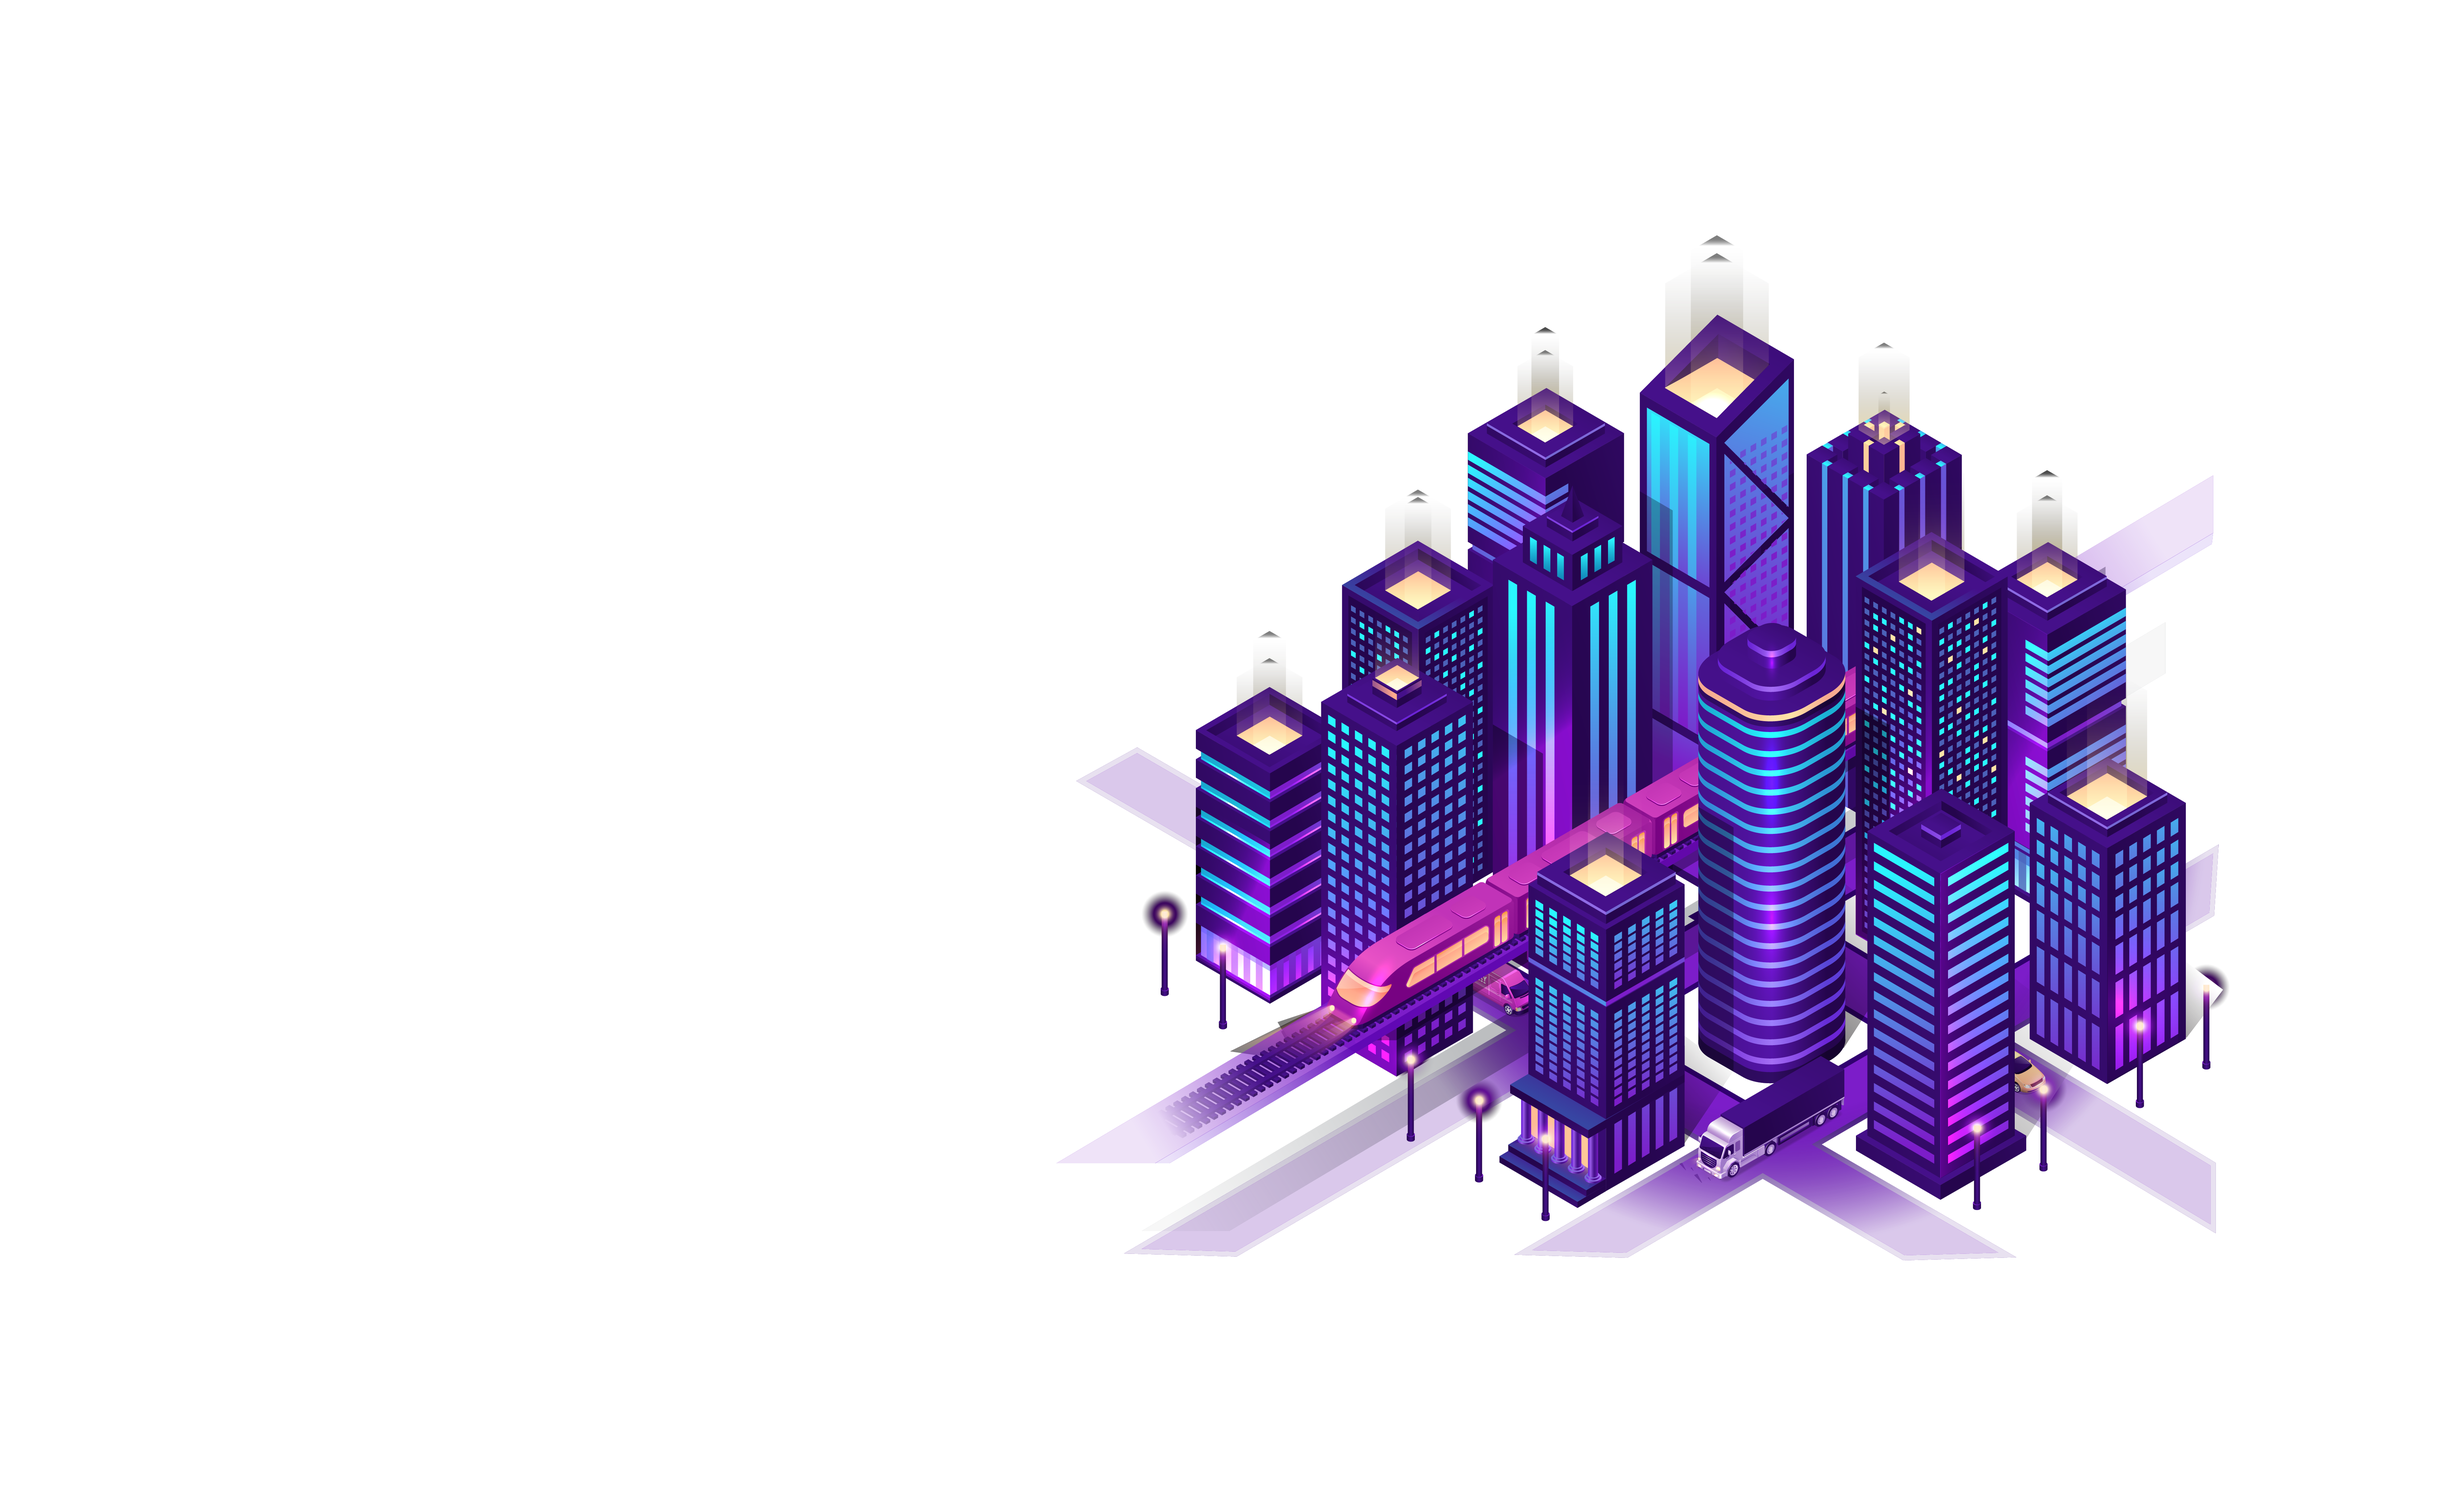
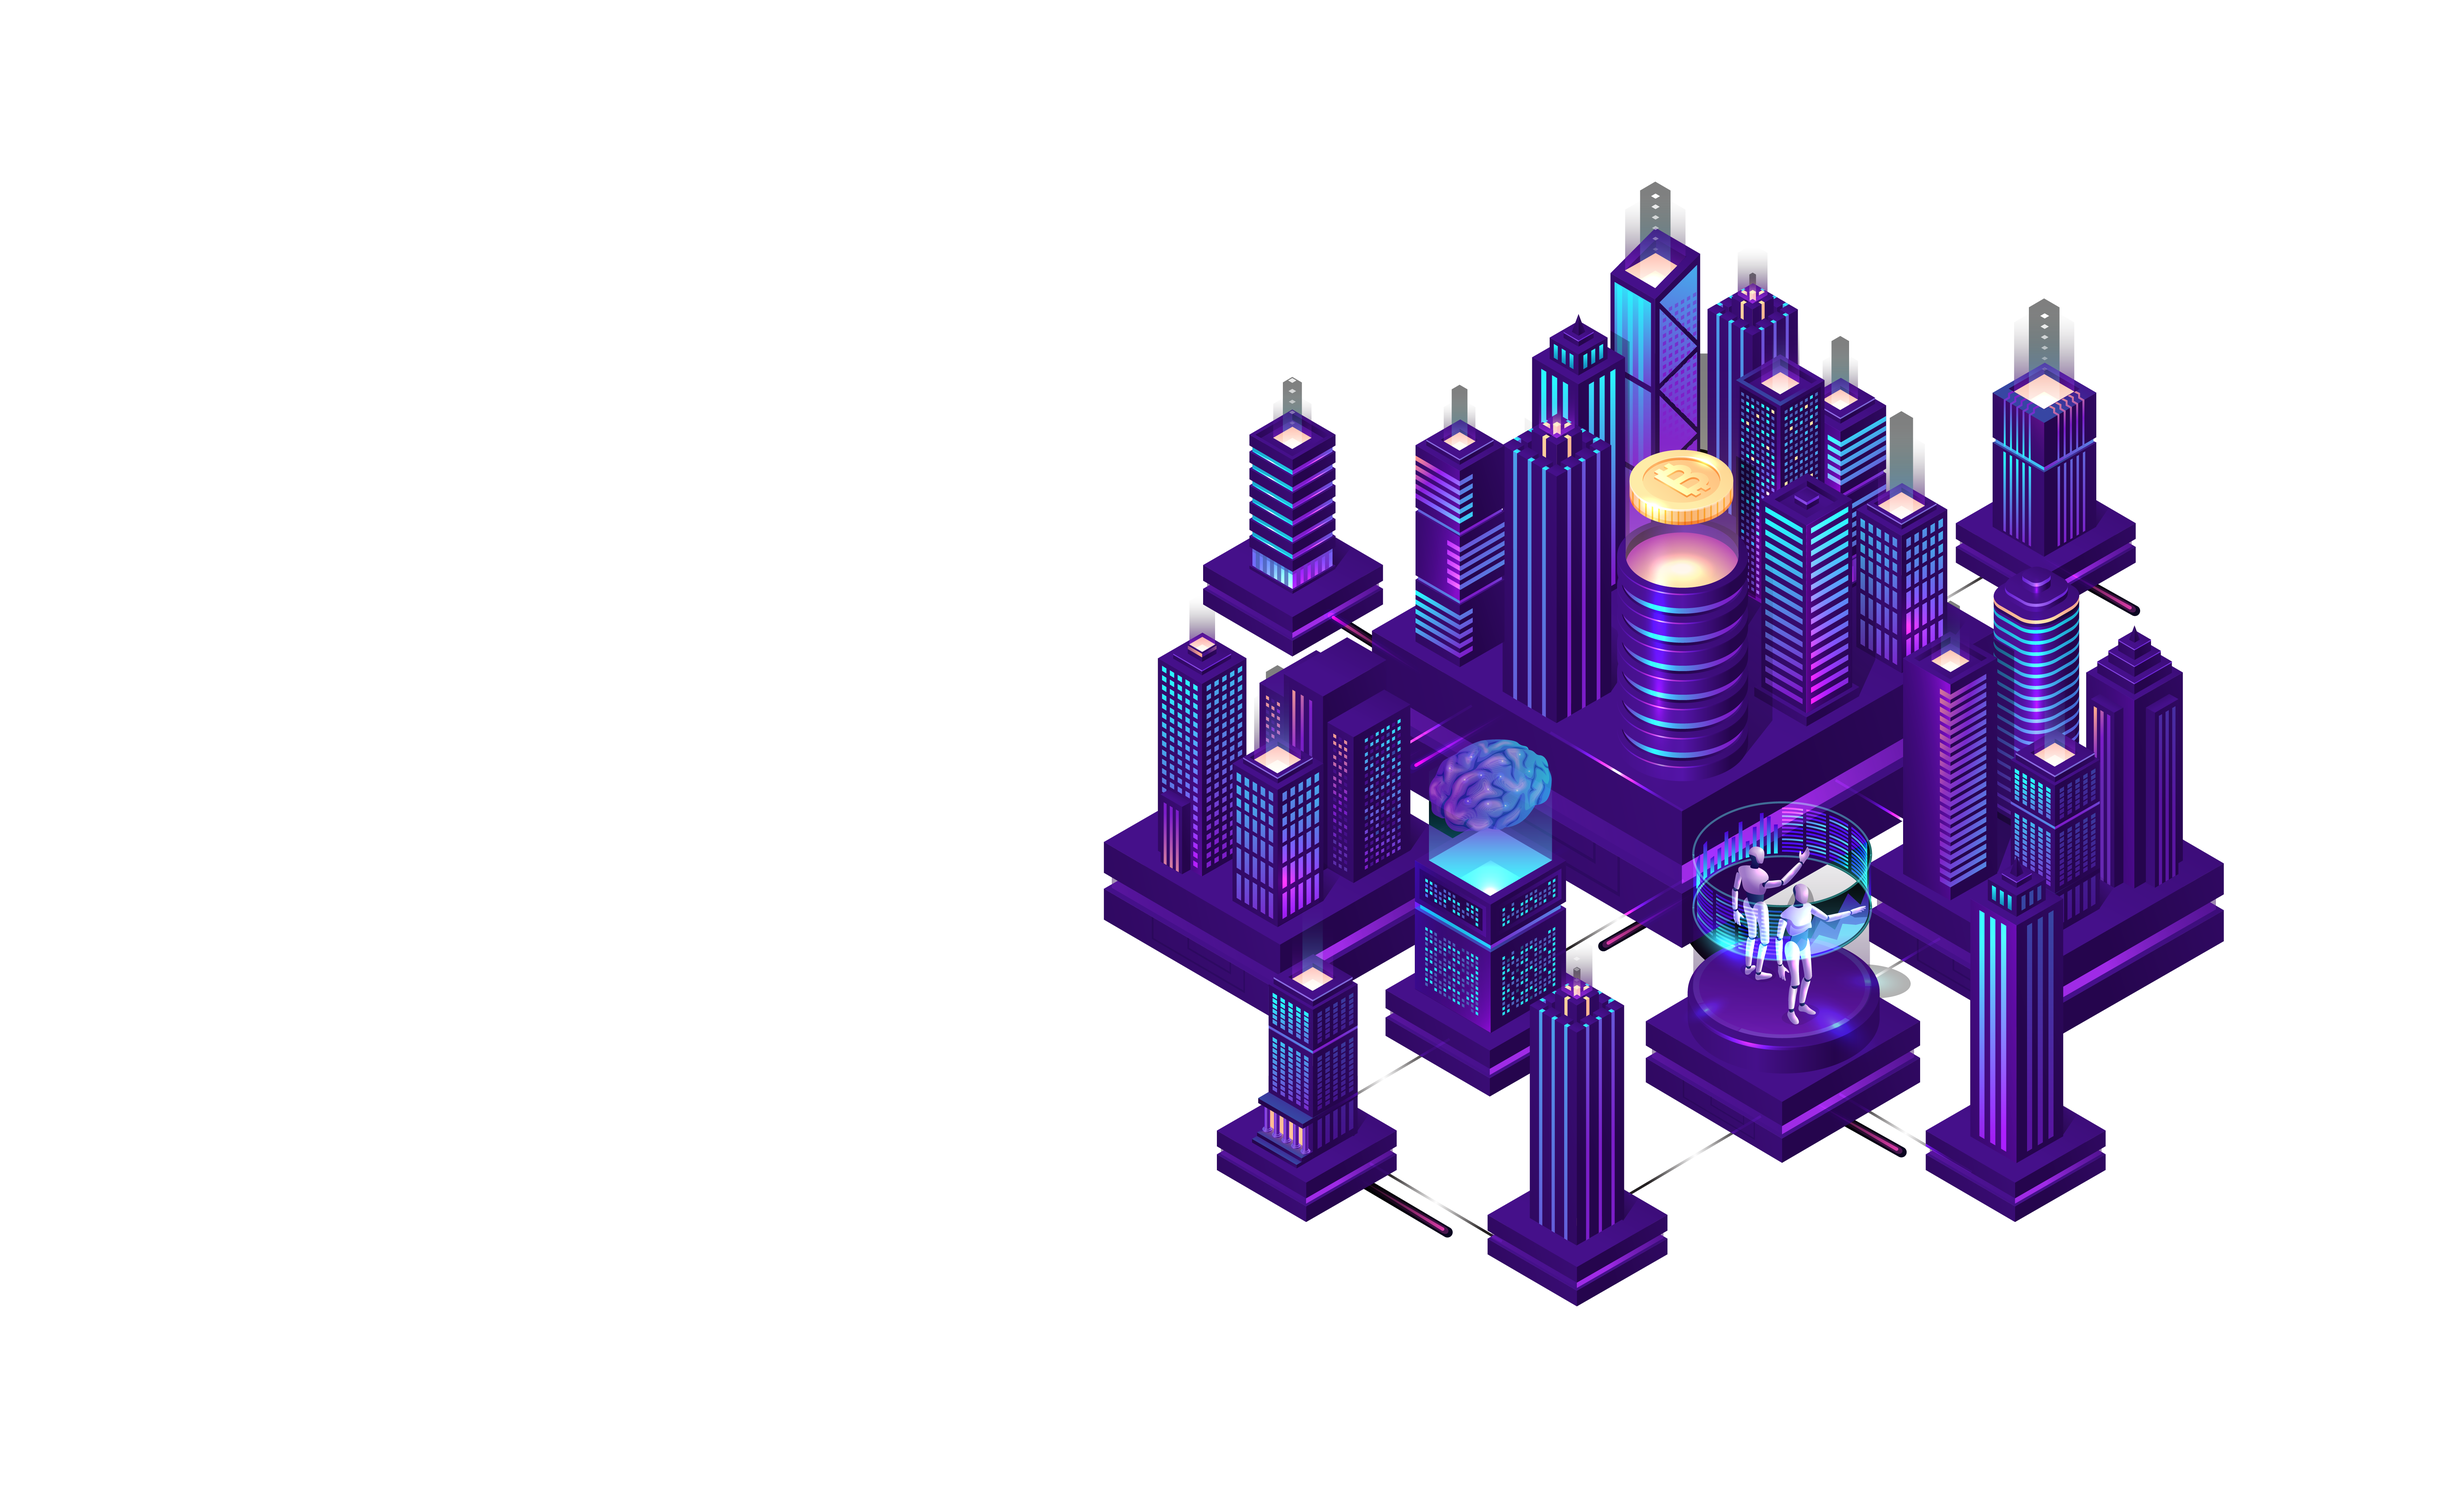
Added Landing Illustrations

Changed region(s): [[0.4372, 0.1247, 0.9057, 0.8729]]

diff --git a/src/partials/Landing.js b/src/partials/Landing.js
@@ -31,6 +31,8 @@ export default function Landing() {
         <div className="waves-wrapper">
           <div className="waves-container">
             <img src="assets/img/landing-02.png" />
+            <img src="assets/img/landing-brain.png" />
+            <img src="assets/img/landingbitcoin.png" />
             {/* <img
                 src="images/Graphic-Hero-Blur.jpg"
                 loading="lazy"
